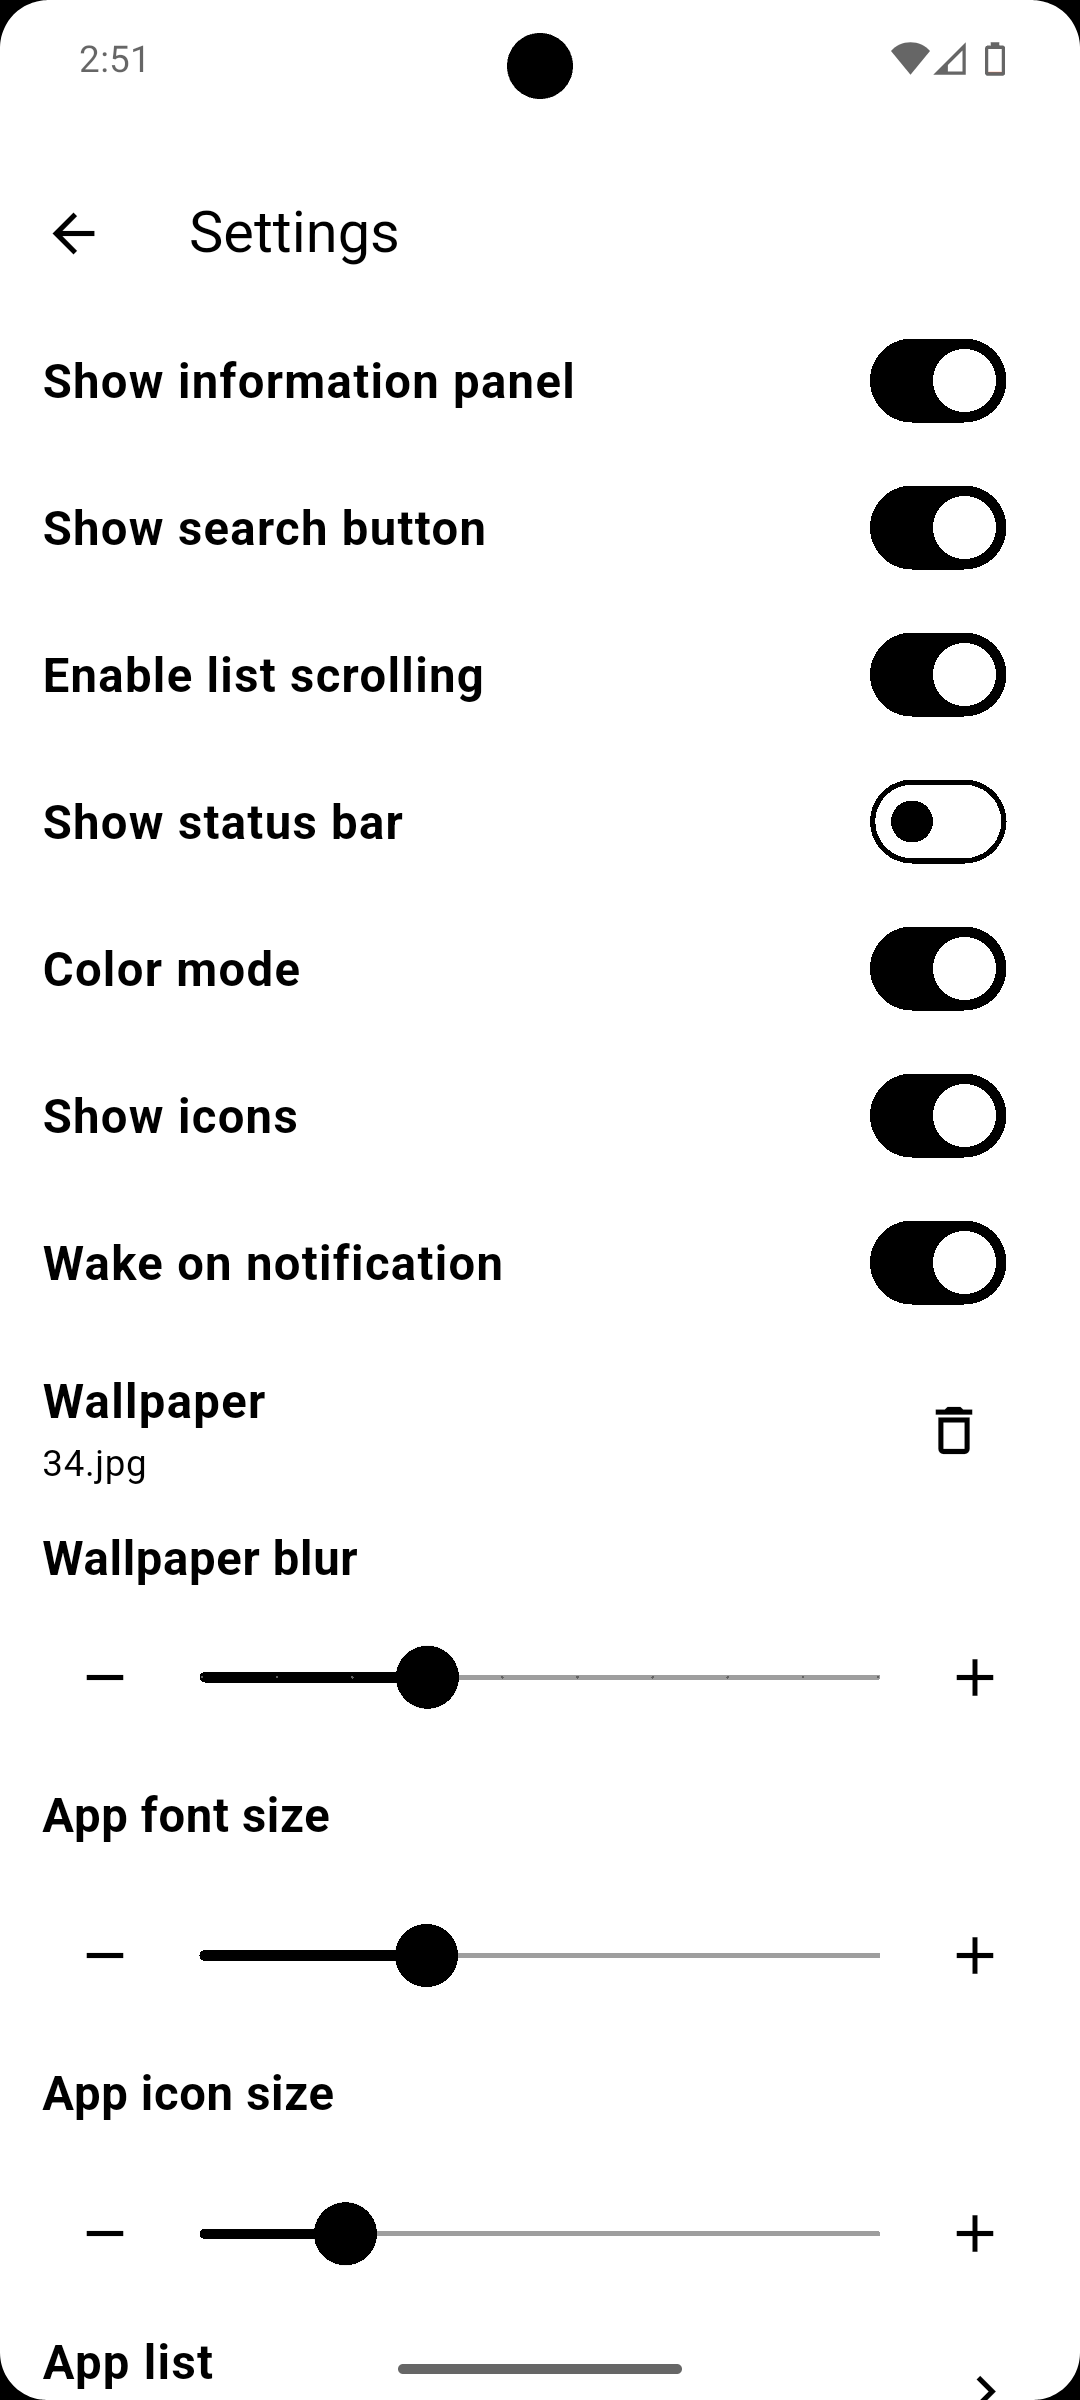
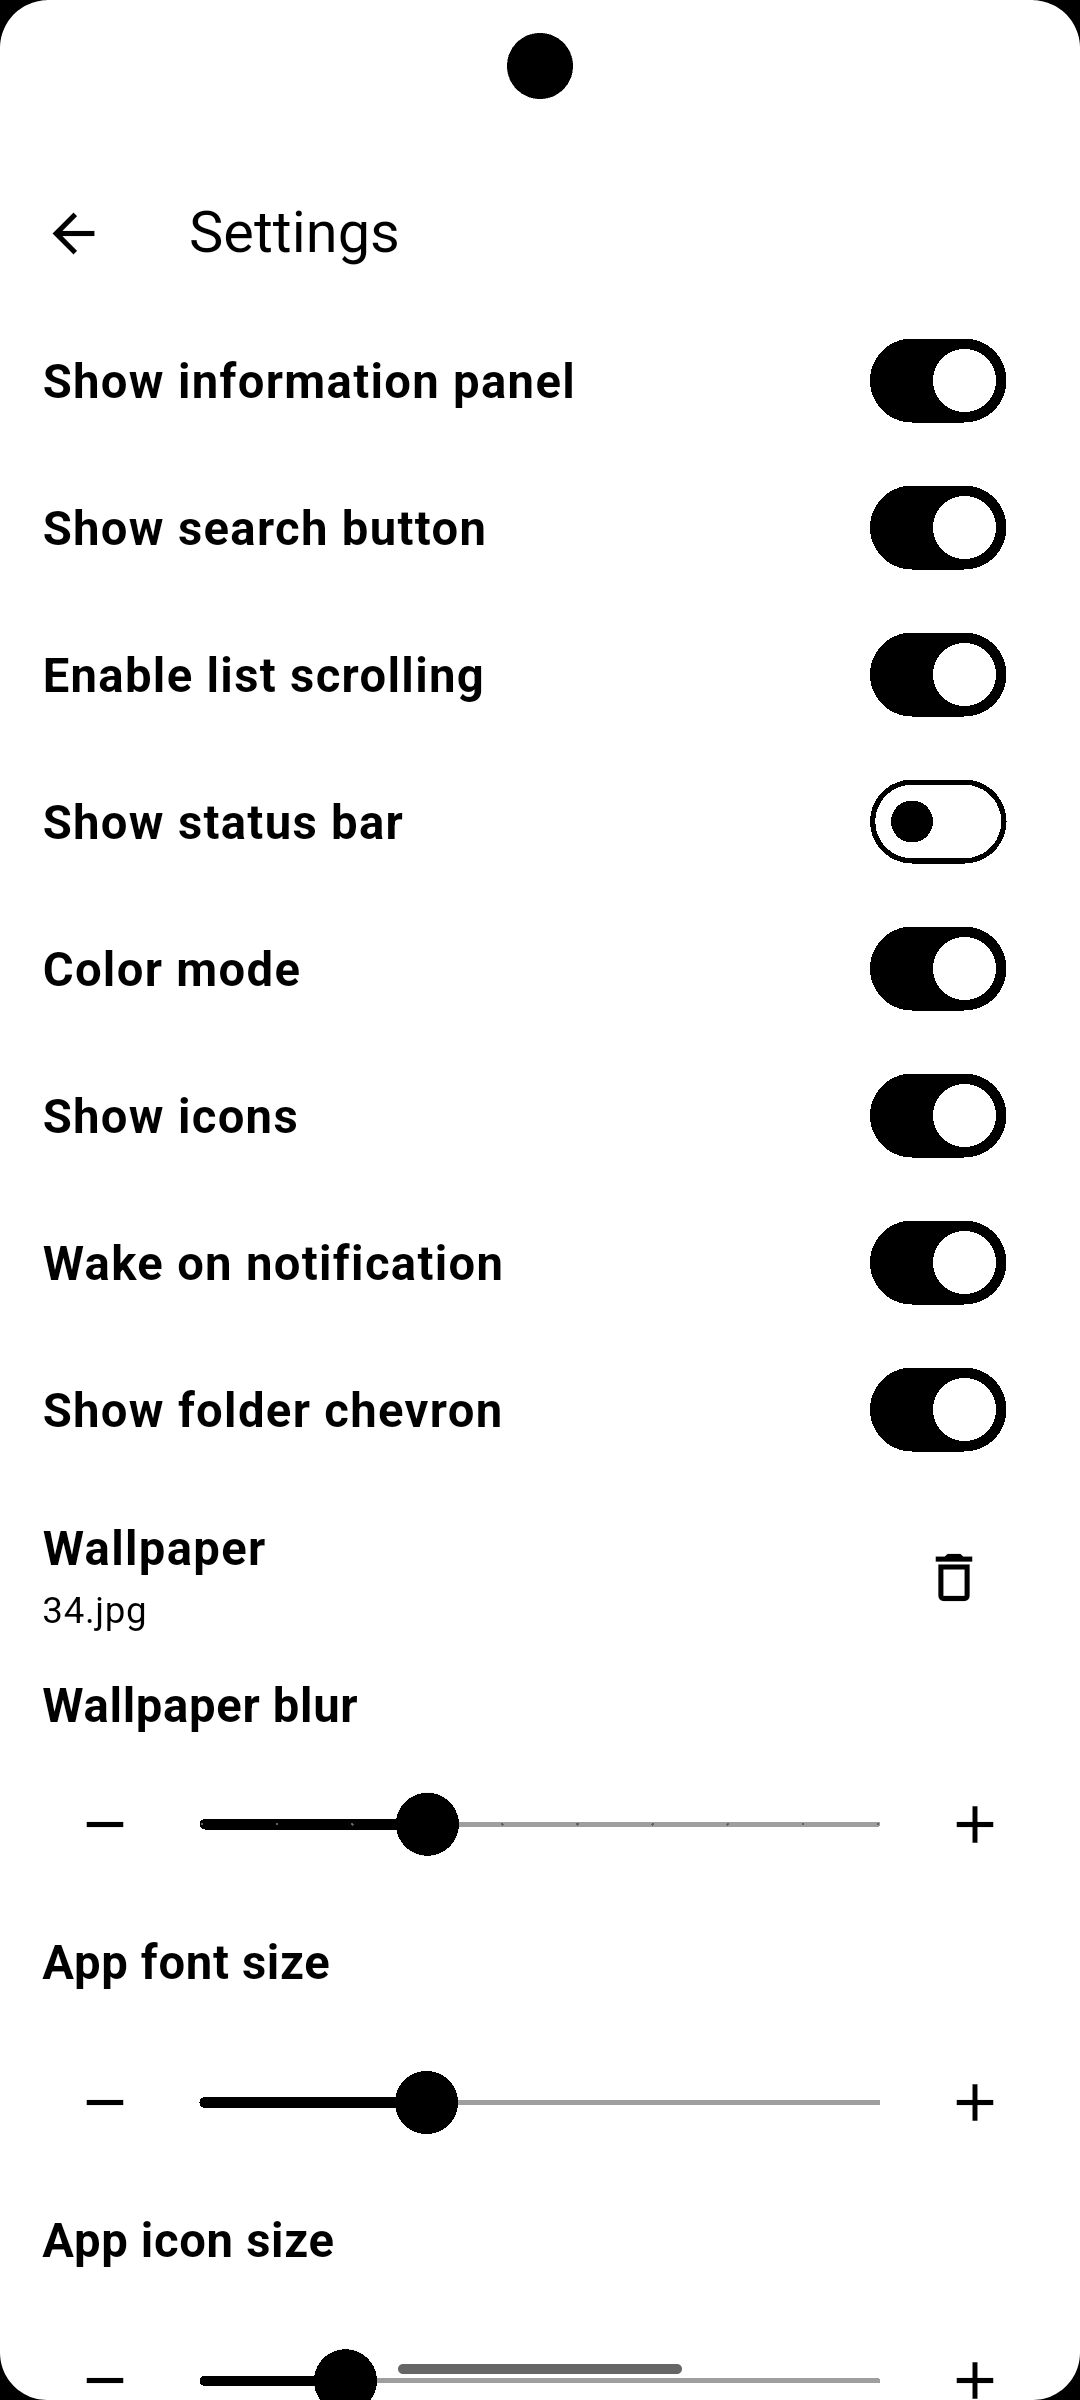
version: - 1.11.0 - added chevron option for folder.

diff --git a/lib/screens/settings_screen.dart b/lib/screens/settings_screen.dart
@@ -29,6 +29,7 @@ class _SettingsScreenState extends State<SettingsScreen> {
   double appIconSize = 35.0;
   bool enableScroll = true;
   bool showIcons = false;
+  bool showFolderChevron = true;
   bool colorMode = true;
   bool wakeOnNotification = false;
   List<String> selectedApps = [];
@@ -51,6 +52,7 @@ class _SettingsScreenState extends State<SettingsScreen> {
       appIconSize = widget.prefs.getDouble('appIconSize') ?? 35.0;
       enableScroll = widget.prefs.getBool('enableScroll') ?? true;
       showIcons = widget.prefs.getBool('showIcons') ?? true;
+      showFolderChevron = widget.prefs.getBool('showFolderChevron') ?? true;
       colorMode = widget.prefs.getBool('colorMode') ?? true;
       wakeOnNotification = widget.prefs.getBool('wakeOnNotification') ?? false;
       selectedApps = widget.prefs.getStringList('selectedApps') ?? [];
@@ -77,6 +79,7 @@ class _SettingsScreenState extends State<SettingsScreen> {
       await widget.prefs.setDouble('appIconSize', appIconSize);
       await widget.prefs.setBool('enableScroll', enableScroll);
       await widget.prefs.setBool('showIcons', showIcons);
+      await widget.prefs.setBool('showFolderChevron', showFolderChevron);
       await widget.prefs.setBool('colorMode', colorMode);
       await widget.prefs.setBool('wakeOnNotification', wakeOnNotification);
       await widget.prefs.setStringList('selectedApps', selectedApps);
@@ -170,6 +173,7 @@ class _SettingsScreenState extends State<SettingsScreen> {
         'appIconSize': prefs.getDouble('appIconSize') ?? 35.0,
         'selectedApps': prefs.getStringList('selectedApps') ?? <String>[],
         'showStatusBar': prefs.getBool('showStatusBar') ?? false,
+        'showFolderChevron': prefs.getBool('showFolderChevron') ?? true,
         'wallpaperBlur': prefs.getDouble('wallpaperBlur') ?? 0.0,
       };
 
@@ -310,6 +314,11 @@ class _SettingsScreenState extends State<SettingsScreen> {
       final bool? vColorMode = getBoolOrNull('colorMode');
       if (vColorMode != null) {
         await prefs.setBool('colorMode', vColorMode);
+      }
+
+      final bool? vShowFolderChevron = getBoolOrNull('showFolderChevron');
+      if (vShowFolderChevron != null) {
+        await prefs.setBool('showFolderChevron', vShowFolderChevron);
       }
 
       final bool? vWakeOnNotification = getBoolOrNull('wakeOnNotification');
@@ -523,7 +532,25 @@ class _SettingsScreenState extends State<SettingsScreen> {
                         },
                       ),
 
-                      // 8. Wallpaper (single setting item)
+                      // 8. Show folder chevron
+                      SwitchListTile(
+                        title: Text(
+                          AppLocalizations.of(context)!.showFolderChevron,
+                          style: const TextStyle(
+                            fontSize: 18,
+                            fontWeight: FontWeight.bold,
+                          ),
+                        ),
+                        value: showFolderChevron,
+                        onChanged: (value) {
+                          setState(() {
+                            showFolderChevron = value;
+                          });
+                          _saveSettings();
+                        },
+                      ),
+
+                      // 9. Wallpaper (single setting item)
                       ListTile(
                         title: Text(
                           AppLocalizations.of(context)!.wallpaper,
@@ -597,7 +624,7 @@ class _SettingsScreenState extends State<SettingsScreen> {
                         },
                       ),
 
-                      // 8b. Wallpaper blur slider (only when wallpaper is set)
+                      // 9b. Wallpaper blur slider (only when wallpaper is set)
                       if (wallpaperPath != null) ...[
                         Padding(
                           padding:
@@ -688,7 +715,7 @@ class _SettingsScreenState extends State<SettingsScreen> {
                         ),
                       ],
 
-                      // 9. App font size
+                      // 10. App font size
                       Padding(
                         padding: const EdgeInsets.all(16.0),
                         child: Text(
@@ -761,7 +788,7 @@ class _SettingsScreenState extends State<SettingsScreen> {
                         ),
                       ),
 
-                      // 10. App icon size
+                      // 11. App icon size
                       Padding(
                         padding: const EdgeInsets.all(16.0),
                         child: Text(
@@ -834,7 +861,7 @@ class _SettingsScreenState extends State<SettingsScreen> {
                         ),
                       ),
 
-                      // 11. App list
+                      // 12. App list
                       ListTile(
                         title: Text(
                           AppLocalizations.of(context)!.appList,
@@ -851,7 +878,7 @@ class _SettingsScreenState extends State<SettingsScreen> {
                         onTap: _selectApps,
                       ),
 
-                      // 12. Reorder apps
+                      // 13. Reorder apps
                       ListTile(
                         title: Text(
                           AppLocalizations.of(context)!.reorderAppsFolders,
@@ -864,7 +891,7 @@ class _SettingsScreenState extends State<SettingsScreen> {
                         onTap: selectedApps.isEmpty ? null : _reorderApps,
                       ),
 
-                      // 13. Manage folders
+                      // 14. Manage folders
                       ListTile(
                         title: Text(
                           AppLocalizations.of(context)!.manageFolders,
@@ -893,7 +920,7 @@ class _SettingsScreenState extends State<SettingsScreen> {
                         },
                       ),
 
-                      // 14. Gestures
+                      // 15. Gestures
                       ListTile(
                         title: Text(
                           AppLocalizations.of(context)!.gestures,
@@ -919,7 +946,7 @@ class _SettingsScreenState extends State<SettingsScreen> {
                         },
                       ),
 
-                      // 15. Export settings
+                      // 16. Export settings
                       const Divider(height: 32),
                       ListTile(
                         title: Text(

diff --git a/lib/screens/main_screen.dart b/lib/screens/main_screen.dart
@@ -52,6 +52,7 @@ class _MainScreenState extends State<MainScreen> with WidgetsBindingObserver {
   late bool _enableScroll;
   late bool _showIcons;
   late bool _colorMode;
+  late bool _showFolderChevron;
   late String _currentTime;
   late String _currentDate;
   late int _batteryLevel;
@@ -270,6 +271,7 @@ class _MainScreenState extends State<MainScreen> with WidgetsBindingObserver {
     _enableScroll = widget.prefs.getBool('enableScroll') ?? true;
     _showIcons = widget.prefs.getBool('showIcons') ?? true;
     _colorMode = widget.prefs.getBool('colorMode') ?? true;
+    _showFolderChevron = widget.prefs.getBool('showFolderChevron') ?? true;
 
     _appIconSize = widget.prefs.getDouble('appIconSize') ?? 18.0;
     _currentTime = _timeFormatter.format(DateTime.now());
@@ -670,6 +672,7 @@ class _MainScreenState extends State<MainScreen> with WidgetsBindingObserver {
         'enableScroll': prefs.getBool('enableScroll') ?? true,
         'showIcons': prefs.getBool('showIcons') ?? false,
         'colorMode': prefs.getBool('colorMode') ?? true,
+        'showFolderChevron': prefs.getBool('showFolderChevron') ?? true,
         'selectedApps': prefs.getStringList('selectedApps') ?? <String>[],
         'appIconSize': prefs.getDouble('appIconSize') ?? 18.0,
         'showStatusBar': prefs.getBool('showStatusBar') ?? false,
@@ -685,12 +688,10 @@ class _MainScreenState extends State<MainScreen> with WidgetsBindingObserver {
           _enableScroll != settings['enableScroll'] ||
           _showIcons != settings['showIcons'] ||
           _colorMode != settings['colorMode'] ||
-          !listEquals(
-            _selectedApps,
-            settings['selectedApps'] as List<String>,
-          ) ||
+          !listEquals(_selectedApps, settings['selectedApps'] as List<String>) ||
           _appIconSize != settings['appIconSize'] ||
           _wallpaperPath != settings['wallpaperPath'] ||
+          _showFolderChevron != settings['showFolderChevron'] ||
           _wallpaperBlur != settings['wallpaperBlur'];
 
       if (hasChanges) {
@@ -703,6 +704,7 @@ class _MainScreenState extends State<MainScreen> with WidgetsBindingObserver {
           _enableScroll = settings['enableScroll'] as bool;
           _showIcons = settings['showIcons'] as bool;
           _colorMode = settings['colorMode'] as bool;
+          _showFolderChevron = settings['showFolderChevron'] as bool;
           _selectedApps = List.from(settings['selectedApps'] as List<String>);
           _appIconSize = settings['appIconSize'] as double;
           _wallpaperPath = settings['wallpaperPath'] as String?;
@@ -1048,7 +1050,7 @@ class _MainScreenState extends State<MainScreen> with WidgetsBindingObserver {
 
       // Insert the folder
       if (folder.appPackageNames.isNotEmpty) {
-        items.add(_buildFolderItem(folder));
+        items.add(_buildFolderItem(currentIndex, folder));
         currentIndex++;
 
         // If folder is expanded, add its apps
@@ -1089,15 +1091,15 @@ class _MainScreenState extends State<MainScreen> with WidgetsBindingObserver {
     );
   }
 
-  void _scrollOnFolderExpand() {
+  void _scrollOnFolderExpand(int currentIndex) {
     try {
       _scrollController.animateTo(
-        200,
+        currentIndex * 150,
         duration: const Duration(milliseconds: 500),
         curve: Curves.easeIn,
       );
     } catch (e) {
-      debugPrint('_scrollOnFolderExpand(): $e');
+      debugPrint('_scrollOnFolderExpand($currentIndex): $e');
     }
   }
 
@@ -1230,7 +1232,7 @@ class _MainScreenState extends State<MainScreen> with WidgetsBindingObserver {
     }
   }
 
-  Widget _buildFolderItem(Folder folder) {
+  Widget _buildFolderItem(int currentIndex, Folder folder) {
     return Material(
       color: Colors.transparent,
       child: InkWell(
@@ -1240,7 +1242,7 @@ class _MainScreenState extends State<MainScreen> with WidgetsBindingObserver {
               _expandedFolders.remove(folder.id);
             } else {
               _expandedFolders.add(folder.id);
-              _scrollOnFolderExpand();
+              _scrollOnFolderExpand(currentIndex);
             }
           });
         },
@@ -1282,13 +1284,14 @@ class _MainScreenState extends State<MainScreen> with WidgetsBindingObserver {
                   maxLines: 1,
                 ),
               ),
-              Icon(
-                _expandedFolders.contains(folder.id)
-                    ? Icons.expand_less
-                    : Icons.expand_more,
-                size: 24.0,
-                color: _overlayTextColor,
-              ),
+              if (_showFolderChevron)
+                Icon(
+                  _expandedFolders.contains(folder.id)
+                      ? Icons.expand_less
+                      : Icons.expand_more,
+                  size: 24.0,
+                  color: _overlayTextColor,
+                ),
             ],
           ),
         ),
@@ -1753,7 +1756,6 @@ class _MainScreenState extends State<MainScreen> with WidgetsBindingObserver {
     return PopScope(
       canPop: false,
       child: Scaffold(
-        // Use white as the default background
         backgroundColor: Colors.white,
         body: Stack(
           children: [

diff --git a/lib/l10n/app_localizations.dart b/lib/l10n/app_localizations.dart
@@ -167,6 +167,12 @@ abstract class AppLocalizations {
   /// **'Show icons'**
   String get showIcons;
 
+  /// Label for folder chevron visibility setting
+  ///
+  /// In en, this message translates to:
+  /// **'Show folder chevron'**
+  String get showFolderChevron;
+
   /// Label for status bar visibility setting
   ///
   /// In en, this message translates to:

diff --git a/lib/l10n/app_localizations_nl.dart b/lib/l10n/app_localizations_nl.dart
@@ -45,6 +45,9 @@ class AppLocalizationsNl extends AppLocalizations {
   String get showIcons => 'Toon pictogrammen';
 
   @override
+  String get showFolderChevron => 'Map-chevron tonen';
+
+  @override
   String get showStatusBar => 'Toon statusbalk';
 
   @override

diff --git a/lib/l10n/app_localizations_en.dart b/lib/l10n/app_localizations_en.dart
@@ -45,6 +45,9 @@ class AppLocalizationsEn extends AppLocalizations {
   String get showIcons => 'Show icons';
 
   @override
+  String get showFolderChevron => 'Show folder chevron';
+
+  @override
   String get showStatusBar => 'Show status bar';
 
   @override
